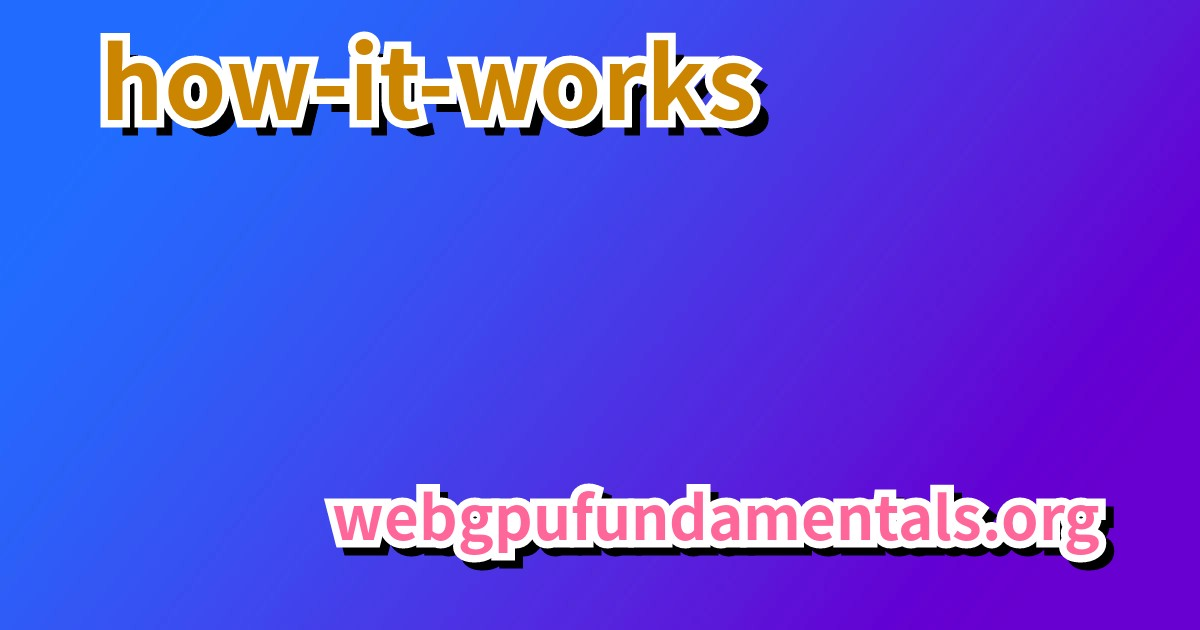
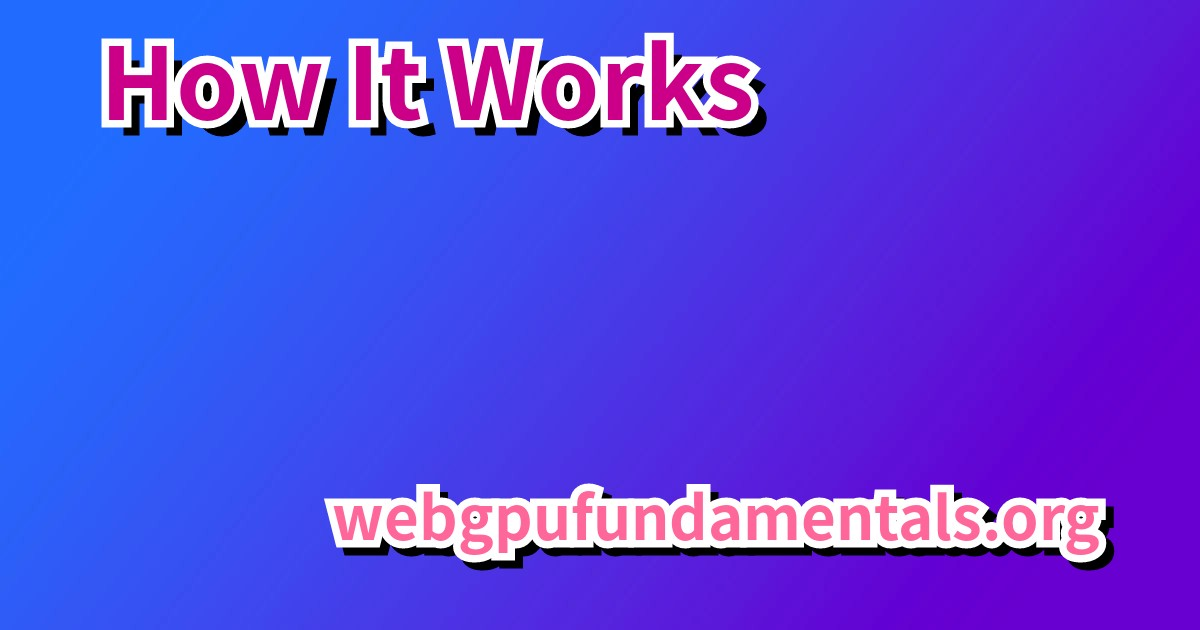
Deploying to gh-pages from  @ fb6cabfd65a55c5c579146f4162dce94fbc798e0 🚀

Changed region(s): [[0.0617, 0.0302, 0.6475, 0.2413]]

diff --git a/contributors.js b/contributors.js
@@ -1,2 +1,2 @@
 
-const contributors = [{"login":"greggman","id":234804,"node_id":"MDQ6VXNlcjIzNDgwNA==","avatar_url":"https://avatars.githubusercontent.com/u/234804?v=4","gravatar_id":"","url":"https://api.github.com/users/greggman","html_url":"https://github.com/greggman","followers_url":"https://api.github.com/users/greggman/followers","following_url":"https://api.github.com/users/greggman/following{/other_user}","gists_url":"https://api.github.com/users/greggman/gists{/gist_id}","starred_url":"https://api.github.com/users/greggman/starred{/owner}{/repo}","subscriptions_url":"https://api.github.com/users/greggman/subscriptions","organizations_url":"https://api.github.com/users/greggman/orgs","repos_url":"https://api.github.com/users/greggman/repos","events_url":"https://api.github.com/users/greggman/events{/privacy}","received_events_url":"https://api.github.com/users/greggman/received_events","type":"User","site_admin":false,"contributions":79},{"login":"jrprice","id":3430185,"node_id":"MDQ6VXNlcjM0MzAxODU=","avatar_url":"https://avatars.githubusercontent.com/u/3430185?v=4","gravatar_id":"","url":"https://api.github.com/users/jrprice","html_url":"https://github.com/jrprice","followers_url":"https://api.github.com/users/jrprice/followers","following_url":"https://api.github.com/users/jrprice/following{/other_user}","gists_url":"https://api.github.com/users/jrprice/gists{/gist_id}","starred_url":"https://api.github.com/users/jrprice/starred{/owner}{/repo}","subscriptions_url":"https://api.github.com/users/jrprice/subscriptions","organizations_url":"https://api.github.com/users/jrprice/orgs","repos_url":"https://api.github.com/users/jrprice/repos","events_url":"https://api.github.com/users/jrprice/events{/privacy}","received_events_url":"https://api.github.com/users/jrprice/received_events","type":"User","site_admin":false,"contributions":1}];
+const contributors = [{"login":"greggman","id":234804,"node_id":"MDQ6VXNlcjIzNDgwNA==","avatar_url":"https://avatars.githubusercontent.com/u/234804?v=4","gravatar_id":"","url":"https://api.github.com/users/greggman","html_url":"https://github.com/greggman","followers_url":"https://api.github.com/users/greggman/followers","following_url":"https://api.github.com/users/greggman/following{/other_user}","gists_url":"https://api.github.com/users/greggman/gists{/gist_id}","starred_url":"https://api.github.com/users/greggman/starred{/owner}{/repo}","subscriptions_url":"https://api.github.com/users/greggman/subscriptions","organizations_url":"https://api.github.com/users/greggman/orgs","repos_url":"https://api.github.com/users/greggman/repos","events_url":"https://api.github.com/users/greggman/events{/privacy}","received_events_url":"https://api.github.com/users/greggman/received_events","type":"User","site_admin":false,"contributions":80},{"login":"jrprice","id":3430185,"node_id":"MDQ6VXNlcjM0MzAxODU=","avatar_url":"https://avatars.githubusercontent.com/u/3430185?v=4","gravatar_id":"","url":"https://api.github.com/users/jrprice","html_url":"https://github.com/jrprice","followers_url":"https://api.github.com/users/jrprice/followers","following_url":"https://api.github.com/users/jrprice/following{/other_user}","gists_url":"https://api.github.com/users/jrprice/gists{/gist_id}","starred_url":"https://api.github.com/users/jrprice/starred{/owner}{/repo}","subscriptions_url":"https://api.github.com/users/jrprice/subscriptions","organizations_url":"https://api.github.com/users/jrprice/orgs","repos_url":"https://api.github.com/users/jrprice/repos","events_url":"https://api.github.com/users/jrprice/events{/privacy}","received_events_url":"https://api.github.com/users/jrprice/received_events","type":"User","site_admin":false,"contributions":1}];

diff --git a/webgpu/lessons/webgpu-how-it-works.html b/webgpu/lessons/webgpu-how-it-works.html
@@ -217,11 +217,9 @@ OF THIS SOFTWARE, EVEN IF ADVISED OF THE POSSIBILITY OF SUCH DAMAGE.
   </div>
   <div class="lesson">
     <div class="lesson-main">
-      <p>Let’s try to explain this by implementing something similar to what the GPU does
+      <p>Let’s try to explain WebGPU by implementing something similar to what the GPU does
 with vertex shaders and fragment shaders but in JavaScript. Hopefully this will give
-you an intuitive feeling about what’s really going on. If you already know how GPUs
-and shaders work, or if you find this section confusing, feel
-free to skip to <a href="#WebGPU">the actual WebGPU code</a>.</p>
+you an intuitive feeling about what’s really going on.</p>
 <p>If you’re familiar with
 <a href="https://developer.mozilla.org/en-US/docs/Web/JavaScript/Reference/Global_Objects/Array/map">Array.map</a>,
 if you squint real hard you can get some idea of how these 2 different kinds of
@@ -663,7 +661,7 @@ techniques in other articles.</p>
 <li><a href="/webgpu/lessons/webgpu-constants.html">Constants</a></li>
 <li><a href="/webgpu/lessons/webgpu-memory-layout.html">Data Memory Layout</a></li>
 <li><a href="/webgpu/lessons/webgpu-wgsl.html">WGSL</a></li>
-<li><a href="/webgpu/lessons/webgpu-how-it-works.html">how-it-works</a></li>
+<li><a href="/webgpu/lessons/webgpu-how-it-works.html">How It Works</a></li>
         </ul>
   <li>Mics</li>
         <ul>

diff --git a/webgpu/lessons/webgpu-storage-buffers.html b/webgpu/lessons/webgpu-storage-buffers.html
@@ -666,7 +666,7 @@ which we’ll cover next in an article on <a href="webgpu-vertex-attributes.html
 <li><a href="/webgpu/lessons/webgpu-constants.html">Constants</a></li>
 <li><a href="/webgpu/lessons/webgpu-memory-layout.html">Data Memory Layout</a></li>
 <li><a href="/webgpu/lessons/webgpu-wgsl.html">WGSL</a></li>
-<li><a href="/webgpu/lessons/webgpu-how-it-works.html">how-it-works</a></li>
+<li><a href="/webgpu/lessons/webgpu-how-it-works.html">How It Works</a></li>
         </ul>
   <li>Mics</li>
         <ul>

diff --git a/webgpu/lessons/webgpu-fundamentals.html b/webgpu/lessons/webgpu-fundamentals.html
@@ -1029,7 +1029,7 @@ pixel represents. <a href="#fnref2" class="footnote-backref">↩</a></p>
 <li><a href="/webgpu/lessons/webgpu-constants.html">Constants</a></li>
 <li><a href="/webgpu/lessons/webgpu-memory-layout.html">Data Memory Layout</a></li>
 <li><a href="/webgpu/lessons/webgpu-wgsl.html">WGSL</a></li>
-<li><a href="/webgpu/lessons/webgpu-how-it-works.html">how-it-works</a></li>
+<li><a href="/webgpu/lessons/webgpu-how-it-works.html">How It Works</a></li>
         </ul>
   <li>Mics</li>
         <ul>

diff --git a/index.html b/index.html
@@ -161,7 +161,7 @@ OF THIS SOFTWARE, EVEN IF ADVISED OF THE POSSIBILITY OF SUCH DAMAGE.
 <li><a href="/webgpu/lessons/webgpu-constants.html">Constants</a></li>
 <li><a href="/webgpu/lessons/webgpu-memory-layout.html">Data Memory Layout</a></li>
 <li><a href="/webgpu/lessons/webgpu-wgsl.html">WGSL</a></li>
-<li><a href="/webgpu/lessons/webgpu-how-it-works.html">how-it-works</a></li>
+<li><a href="/webgpu/lessons/webgpu-how-it-works.html">How It Works</a></li>
         </ul>
   <li>Mics</li>
         <ul>

diff --git a/webgpu/lessons/index.html b/webgpu/lessons/index.html
@@ -161,7 +161,7 @@ OF THIS SOFTWARE, EVEN IF ADVISED OF THE POSSIBILITY OF SUCH DAMAGE.
 <li><a href="/webgpu/lessons/webgpu-constants.html">Constants</a></li>
 <li><a href="/webgpu/lessons/webgpu-memory-layout.html">Data Memory Layout</a></li>
 <li><a href="/webgpu/lessons/webgpu-wgsl.html">WGSL</a></li>
-<li><a href="/webgpu/lessons/webgpu-how-it-works.html">how-it-works</a></li>
+<li><a href="/webgpu/lessons/webgpu-how-it-works.html">How It Works</a></li>
         </ul>
   <li>Mics</li>
         <ul>

diff --git a/webgpu/lessons/webgpu-compute-shaders.html b/webgpu/lessons/webgpu-compute-shaders.html
@@ -238,7 +238,7 @@ OF THIS SOFTWARE, EVEN IF ADVISED OF THE POSSIBILITY OF SUCH DAMAGE.
 <li><a href="/webgpu/lessons/webgpu-constants.html">Constants</a></li>
 <li><a href="/webgpu/lessons/webgpu-memory-layout.html">Data Memory Layout</a></li>
 <li><a href="/webgpu/lessons/webgpu-wgsl.html">WGSL</a></li>
-<li><a href="/webgpu/lessons/webgpu-how-it-works.html">how-it-works</a></li>
+<li><a href="/webgpu/lessons/webgpu-how-it-works.html">How It Works</a></li>
         </ul>
   <li>Mics</li>
         <ul>

diff --git a/webgpu/lessons/webgpu-constants.html b/webgpu/lessons/webgpu-constants.html
@@ -238,7 +238,7 @@ OF THIS SOFTWARE, EVEN IF ADVISED OF THE POSSIBILITY OF SUCH DAMAGE.
 <li><a href="/webgpu/lessons/webgpu-constants.html">Constants</a></li>
 <li><a href="/webgpu/lessons/webgpu-memory-layout.html">Data Memory Layout</a></li>
 <li><a href="/webgpu/lessons/webgpu-wgsl.html">WGSL</a></li>
-<li><a href="/webgpu/lessons/webgpu-how-it-works.html">how-it-works</a></li>
+<li><a href="/webgpu/lessons/webgpu-how-it-works.html">How It Works</a></li>
         </ul>
   <li>Mics</li>
         <ul>

diff --git a/webgpu/lessons/webgpu-error-handlng.html b/webgpu/lessons/webgpu-error-handlng.html
@@ -245,7 +245,7 @@ OF THIS SOFTWARE, EVEN IF ADVISED OF THE POSSIBILITY OF SUCH DAMAGE.
 <li><a href="/webgpu/lessons/webgpu-constants.html">Constants</a></li>
 <li><a href="/webgpu/lessons/webgpu-memory-layout.html">Data Memory Layout</a></li>
 <li><a href="/webgpu/lessons/webgpu-wgsl.html">WGSL</a></li>
-<li><a href="/webgpu/lessons/webgpu-how-it-works.html">how-it-works</a></li>
+<li><a href="/webgpu/lessons/webgpu-how-it-works.html">How It Works</a></li>
         </ul>
   <li>Mics</li>
         <ul>

diff --git a/webgpu/lessons/webgpu-lighting-directional.html b/webgpu/lessons/webgpu-lighting-directional.html
@@ -238,7 +238,7 @@ OF THIS SOFTWARE, EVEN IF ADVISED OF THE POSSIBILITY OF SUCH DAMAGE.
 <li><a href="/webgpu/lessons/webgpu-constants.html">Constants</a></li>
 <li><a href="/webgpu/lessons/webgpu-memory-layout.html">Data Memory Layout</a></li>
 <li><a href="/webgpu/lessons/webgpu-wgsl.html">WGSL</a></li>
-<li><a href="/webgpu/lessons/webgpu-how-it-works.html">how-it-works</a></li>
+<li><a href="/webgpu/lessons/webgpu-how-it-works.html">How It Works</a></li>
         </ul>
   <li>Mics</li>
         <ul>

diff --git a/webgpu/lessons/webgpu-limits-and-features.html b/webgpu/lessons/webgpu-limits-and-features.html
@@ -238,7 +238,7 @@ OF THIS SOFTWARE, EVEN IF ADVISED OF THE POSSIBILITY OF SUCH DAMAGE.
 <li><a href="/webgpu/lessons/webgpu-constants.html">Constants</a></li>
 <li><a href="/webgpu/lessons/webgpu-memory-layout.html">Data Memory Layout</a></li>
 <li><a href="/webgpu/lessons/webgpu-wgsl.html">WGSL</a></li>
-<li><a href="/webgpu/lessons/webgpu-how-it-works.html">how-it-works</a></li>
+<li><a href="/webgpu/lessons/webgpu-how-it-works.html">How It Works</a></li>
         </ul>
   <li>Mics</li>
         <ul>

diff --git a/webgpu/lessons/webgpu-multisampling.html b/webgpu/lessons/webgpu-multisampling.html
@@ -238,7 +238,7 @@ OF THIS SOFTWARE, EVEN IF ADVISED OF THE POSSIBILITY OF SUCH DAMAGE.
 <li><a href="/webgpu/lessons/webgpu-constants.html">Constants</a></li>
 <li><a href="/webgpu/lessons/webgpu-memory-layout.html">Data Memory Layout</a></li>
 <li><a href="/webgpu/lessons/webgpu-wgsl.html">WGSL</a></li>
-<li><a href="/webgpu/lessons/webgpu-how-it-works.html">how-it-works</a></li>
+<li><a href="/webgpu/lessons/webgpu-how-it-works.html">How It Works</a></li>
         </ul>
   <li>Mics</li>
         <ul>
